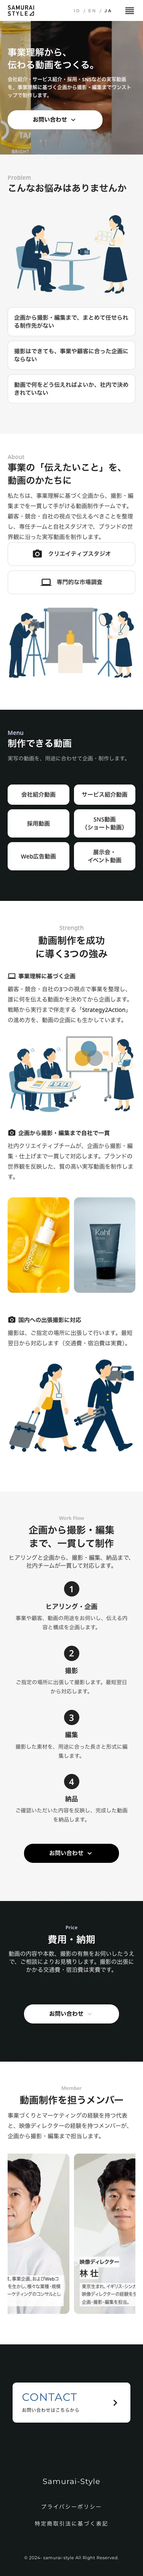
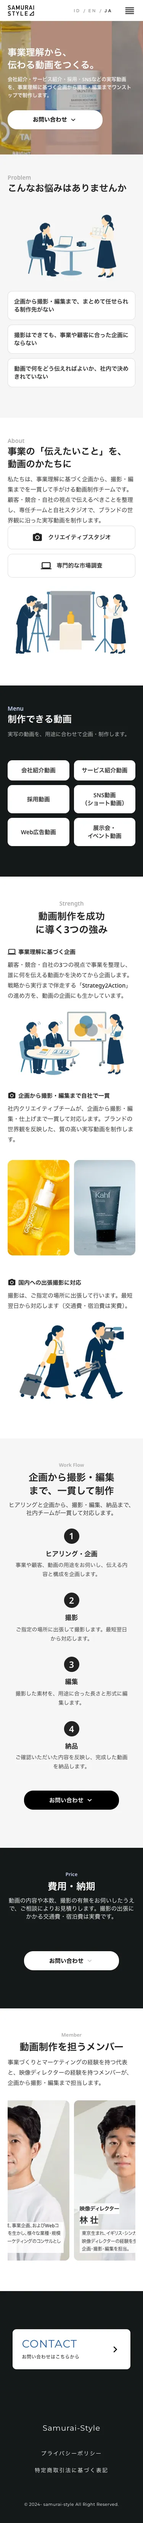
handover: smaller illustrations

diff --git a/docs/samurai-site-handover/index.html b/docs/samurai-site-handover/index.html
@@ -225,7 +225,7 @@ td code{font-family:var(--mono);font-size:13px;background:var(--code);padding:1p
       <div class="field"><span>Chip 1</span><div class="cp"><div class="txt">企画から撮影・編集まで、まとめて任せられる制作先がない</div><button class="copy" type="button">Copy</button></div></div>
       <div class="field"><span>Chip 2</span><div class="cp"><div class="txt">撮影はできても、事業や顧客に合った企画にならない</div><button class="copy" type="button">Copy</button></div></div>
       <div class="field"><span>Chip 3</span><div class="cp"><div class="txt">動画で何をどう伝えればよいか、社内で決めきれていない</div><button class="copy" type="button">Copy</button></div></div>
-      <p class="note"><b>Illustration</b> to the right of the heading. Heading column: replace <code>flex-col items-start</code> with <code>flex-row items-end justify-between gap-[40px] max-md:flex-col max-md:items-start</code>. Image classes: <code>w-[400px] max-w-[45%] h-auto max-md:w-[300px] max-md:max-w-full max-md:self-center</code>.</p>
+      <p class="note"><b>Illustration</b> to the right of the heading. Heading column: replace <code>flex-col items-start</code> with <code>flex-row items-end justify-between gap-[40px] max-md:flex-col max-md:items-start</code>. Image classes: <code>w-[300px] max-w-[40%] h-auto max-md:w-[240px] max-md:max-w-full max-md:self-center</code>.</p>
       <div class="cardimg"><img src="img/video-problem.webp" alt="動画づくりに悩む会社員2人のイラスト" width="500" style="background:#f5f5f5"><p class="note">File: <a href="img/video-problem.webp" download>video-problem.webp</a> (transparent background). Alt text:</p><div class="cp"><div class="txt">動画づくりに悩む会社員2人のイラスト</div><button class="copy" type="button">Copy</button></div></div>
     </div></li>
 
@@ -243,7 +243,7 @@ td code{font-family:var(--mono);font-size:13px;background:var(--code);padding:1p
 
     <li><div class="body">
       <p><span class="tag style">Layout</span>About: text and chips on the left, illustration on the right.</p>
-      <p class="note">Move the 2 chips into the text column, under the paragraph, side by side. Text column <code>w-[60%]</code> becomes <code>w-[55%]</code>. Chip wrapper: <code>grid w-full grid-cols-2 gap-[16px] max-sm:grid-cols-1 max-sm:gap-[12px]</code>. The right column <code>flex w-[40%] items-center justify-center max-md:w-full</code> holds the illustration, image <code>h-auto w-full max-md:max-w-[420px]</code>.</p>
+      <p class="note">Move the 2 chips into the text column, under the paragraph, side by side. Text column <code>w-[60%]</code> becomes <code>w-[55%]</code>. Chip wrapper: <code>grid w-full grid-cols-2 gap-[16px] max-sm:grid-cols-1 max-sm:gap-[12px]</code>. The right column <code>flex w-[40%] items-center justify-center max-md:w-full</code> holds the illustration, image <code>h-auto w-full max-w-[360px] max-md:max-w-[300px]</code>.</p>
       <div class="cardimg"><img src="img/video-studio.webp" alt="スタジオで商品を撮影するスタッフ2人のイラスト" width="500" style="background:#f5f5f5"><p class="note">File: <a href="img/video-studio.webp" download>video-studio.webp</a> (transparent background). Alt text:</p><div class="cp"><div class="txt">スタジオで商品を撮影するスタッフ2人のイラスト</div><button class="copy" type="button">Copy</button></div></div>
     </div></li>
 
@@ -281,7 +281,7 @@ td code{font-family:var(--mono);font-size:13px;background:var(--code);padding:1p
       <p><span class="tag rep">Replace</span>Strength block 「効果的なマーケティングの本質」: new heading and text, remove its image (the micro-influencer database screenshot), and <b>move it to the first position</b>. Keep its laptop icon.</p>
       <div class="field"><span>Heading</span><div class="cp"><div class="txt">事業理解に基づく企画</div><button class="copy" type="button">Copy</button></div></div>
       <div class="field"><span>Text</span><div class="cp"><div class="txt">顧客・競合・自社の3つの視点で事業を整理し、誰に何を伝える動画かを決めてから企画します。戦略から実行まで伴走する「Strategy2Action」の進め方を、動画の企画にも生かしています。</div><button class="copy" type="button">Copy</button></div></div>
-      <p class="note"><b>Illustration</b> in the image column of this block (where the removed screenshot was). Wrapper: <code>flex w-1/2 items-center justify-center max-md:w-full max-md:max-w-[450px]</code>, image <code>h-auto w-full</code>.</p>
+      <p class="note"><b>Illustration</b> in the image column of this block (where the removed screenshot was). Wrapper: <code>flex w-1/2 items-center justify-center max-md:w-full max-md:max-w-[450px]</code>, image <code>h-auto w-full max-w-[340px] max-sm:max-w-[280px]</code> (smaller than the product photos).</p>
       <div class="cardimg"><img src="img/video-plan.webp" alt="動画の企画会議で3つの視点を説明するイラスト" width="500" style="background:#f5f5f5"><p class="note">File: <a href="img/video-plan.webp" download>video-plan.webp</a> (transparent background). Alt text:</p><div class="cp"><div class="txt">動画の企画会議で3つの視点を説明するイラスト</div><button class="copy" type="button">Copy</button></div></div>
     </div></li>
 
